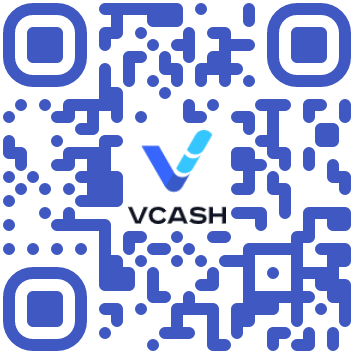
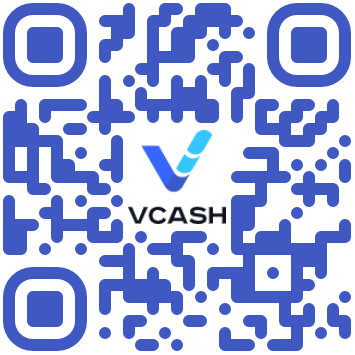
adjust url for digital

diff --git a/main-app/src/utilities/paymentHelper.ts b/main-app/src/utilities/paymentHelper.ts
@@ -89,9 +89,12 @@ export const createVoucherPrintObject = (
         VOUCHER_TYPE_MAPPING[
             voucherTypeId as keyof typeof VOUCHER_TYPE_MAPPING
         ] || VOUCHER_TYPE_MAPPING['20'] // Default fallback
-
+    let prefix = ''
+    if (voucherType === 'Digital Vaučer') {
+        prefix = 'digital/'
+    }
     return {
-        url: `https://market.vcash.rs/?code=${moneyTransfer.voucherCode}`,
+        url: `https://market.vcash.rs/${prefix}?code=${moneyTransfer.voucherCode}`,
         voucherCode: moneyTransfer.voucherCode || '---',
         publicCode: moneyTransfer.moneyTransferCode,
         venueName: moneyTransfer.venue?.name || 'VCash Terminal',
